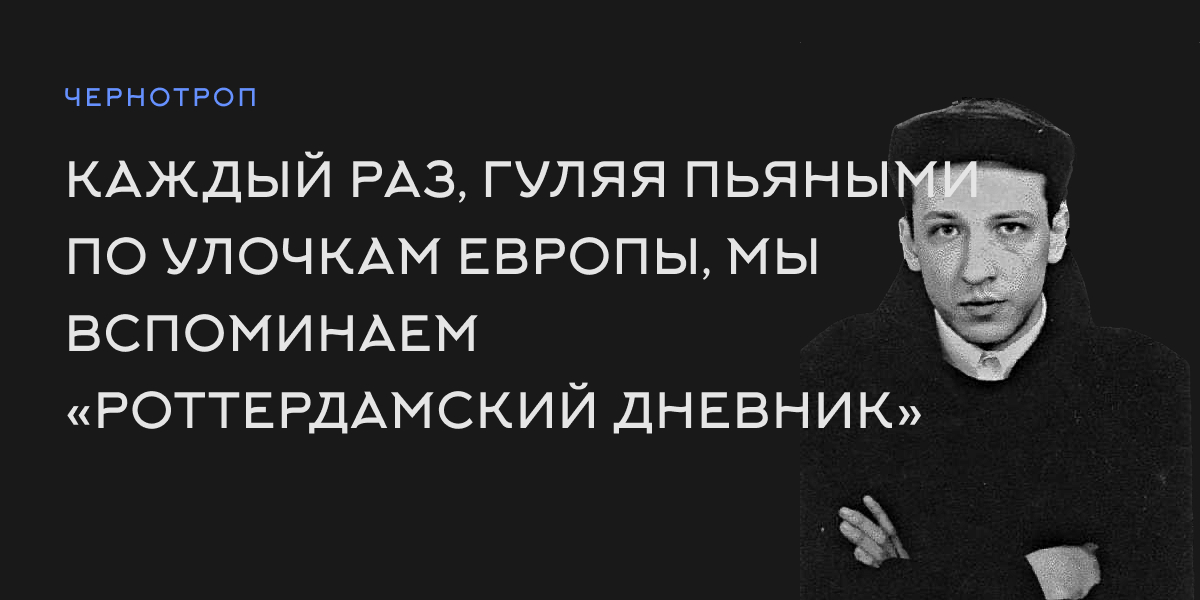
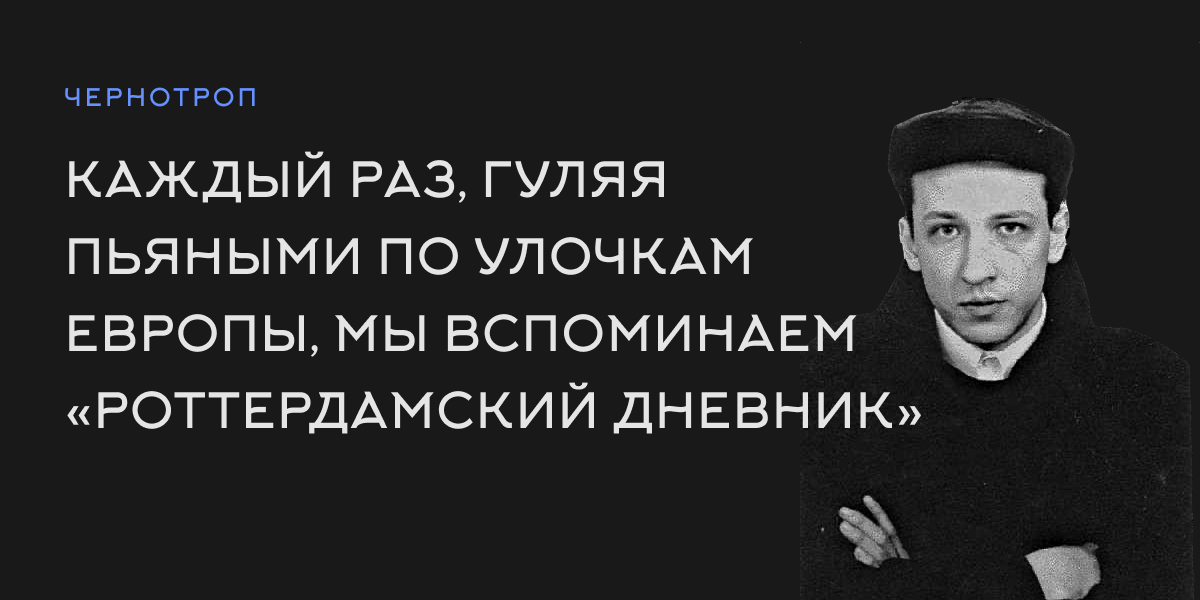
Build new version: carrots-rotterdam mistake + og

Changed region(s): [[0.0617, 0.51, 0.7092, 0.6], [0.0925, 0.39, 0.6783, 0.48], [0.555, 0.27, 0.8325, 0.33]]

diff --git a/docs/carrots-rotterdam.html b/docs/carrots-rotterdam.html
@@ -53,7 +53,7 @@
       <div class="article__content-row">
         <div class="article__content-left">
           <p>Говоря о Европе и стереотипах, всегда вспоминаю Бориса Рыжего.</p>
-          <p>Все знают Рыжего как поэта, а ведь он оставил после себя ещё и немного прозы. В 2000-м году его пригласили в Голландию на поэтический фестиваль. После поездки Рыжий написал «Роттердамский дневник», в котором ловко, практически бесшовно переключался между контекстами и эпохами: с поэтического семинара на родной район, с геологической практики в хулиганское детство, из наркологички — обратно на писательский семинар. В дневнике Рыжий по собственной жизни, как лезвие опасной бритвы.</p>
+          <p>Все знают Рыжего как поэта, а ведь он оставил после себя ещё и немного прозы. В 2000-м году его пригласили в Голландию на поэтический фестиваль. После поездки Рыжий написал «Роттердамский дневник», в котором ловко, практически бесшовно переключался между контекстами и эпохами: с поэтического семинара на родной район, с геологической практики в хулиганское детство, из наркологички — обратно на писательский семинар. В дневнике Рыжий скользит по собственной жизни, как лезвие опасной бритвы.</p>
         </div>
         <div class="article__content-right">
           <figure><img src="img/carrots-portrait.jpg"/>
